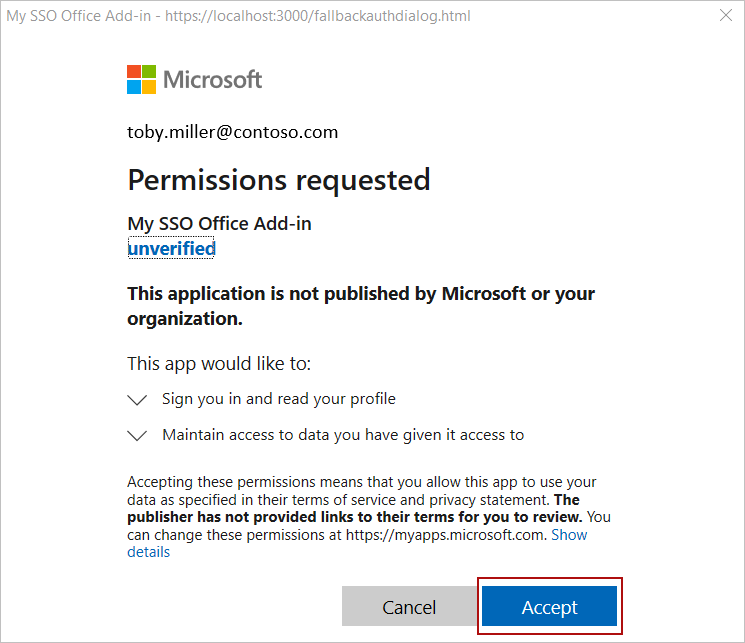
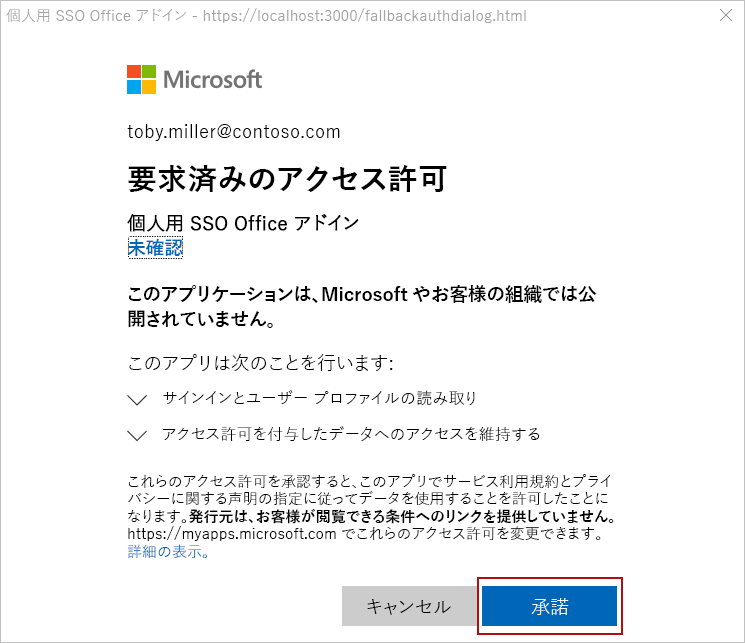
commit translated contents

diff --git a/docs/quickstarts/excel-custom-functions-quickstart.md b/docs/quickstarts/excel-custom-functions-quickstart.md
@@ -1,15 +1,15 @@
 ---
-ms.date: 09/18/2019
+ms.date: 01/16/2020
 description: Excel クイックスタートガイドでのカスタム関数の開発。
 title: カスタム関数のクイックスタート
 ms.prod: excel
 localization_priority: Normal
-ms.openlocfilehash: f34a8817a7c8ef2679fc8ce0a6ad17cec600531b
-ms.sourcegitcommit: a0257feabcfe665061c14b8bdb70cf82f7aca414
+ms.openlocfilehash: 7446de52832a70b30bbe39c71b37e80e006dc62f
+ms.sourcegitcommit: 8bce9c94540ed484d0749f07123dc7c72a6ca126
 ms.translationtype: MT
 ms.contentlocale: ja-JP
-ms.lasthandoff: 09/18/2019
-ms.locfileid: "37035330"
+ms.lasthandoff: 01/22/2020
+ms.locfileid: "41265565"
 ---
 # <a name="get-started-developing-excel-custom-functions"></a>Excel カスタム関数の開発を始める
 
@@ -56,7 +56,7 @@ ms.locfileid: "37035330"
 
 4. Node.js で実行しているローカル Web サーバーを開始します。 Web または Windows 上の Excel でカスタム関数アドインを試すことができます。 アドインの作業ウィンドウを開くように求められる場合がありますが、これはオプションです。 アドインの作業ウィンドウを開かなくても、カスタム関数を実行できます。
 
-# <a name="excel-on-windowstabexcel-windows"></a>[Windows 上の Excel](#tab/excel-windows)
+# <a name="excel-on-windowstabexcel-windows"></a>[Excel on Windows](#tab/excel-windows)
 
 Windows の Excel でアドインをテストするには、次のコマンドを実行します。 このコマンドを実行すると、ローカル web サーバーが起動し、アドインが読み込まれた状態で Excel が開きます。
 

diff --git a/docs/tutorials/excel-tutorial.md b/docs/tutorials/excel-tutorial.md
@@ -1,15 +1,15 @@
 ---
 title: Excel アドインのチュートリアル
 description: このチュートリアルでは、Excel アドインを構築します。このアドインでは、テーブルの作成、表示、フィルター処理、並べ替えを行うことができ、グラフの作成、テーブルのヘッダーの固定、ワークシートの保護も可能となります。また、ダイアログを開くこともできます。
-ms.date: 11/26/2019
+ms.date: 01/16/2020
 ms.prod: excel
 localization_priority: Normal
-ms.openlocfilehash: 48f4decc0cadddecd5669b960238ddd3381f0932
-ms.sourcegitcommit: 350f5c6954dec3e9384e2030cd3265aaba7ae904
+ms.openlocfilehash: 3d9350d30a89d917c30efdbaf91c0c0a5d523724
+ms.sourcegitcommit: 8bce9c94540ed484d0749f07123dc7c72a6ca126
 ms.translationtype: MT
 ms.contentlocale: ja-JP
-ms.lasthandoff: 12/23/2019
-ms.locfileid: "40851419"
+ms.lasthandoff: 01/22/2020
+ms.locfileid: "41265586"
 ---
 # <a name="tutorial-create-an-excel-task-pane-add-in"></a>チュートリアル: Excel 作業ウィンドウ アドインを作成する
 
@@ -1019,6 +1019,6 @@ ms.locfileid: "40851419"
 ## <a name="see-also"></a>関連項目
 
 * [Office アドイン プラットフォームの概要](../overview/office-add-ins.md)
-* [Office アドインを作成する](../overview/office-add-ins-fundamentals.md)
+* [Office アドインを構築する](../overview/office-add-ins-fundamentals.md)
 * [Office アドインを開発する](../develop/develop-overview.md)
 * [Excel JavaScript API を使用した基本的なプログラミングの概念](../excel/excel-add-ins-core-concepts.md)

diff --git a/docs/tutorials/word-tutorial.md b/docs/tutorials/word-tutorial.md
@@ -1,15 +1,15 @@
 ---
 title: Word アドインのチュートリアル
 description: このチュートリアルでは、テキスト範囲、段落、画像、HTML、テーブル、コンテンツ コントロールを挿入 (および置換) する Word アドインを作成します。 テキストに書式を設定する方法と、コンテンツ コントロールにコンテンツを挿入 (および置換) する方法についても説明します。
-ms.date: 12/24/2019
+ms.date: 01/16/2020
 ms.prod: word
 localization_priority: Normal
-ms.openlocfilehash: e6f4a0bee75a9f0de648d8354c6b23b87845c00f
-ms.sourcegitcommit: 350f5c6954dec3e9384e2030cd3265aaba7ae904
+ms.openlocfilehash: 33a5df934dcf707831923c56a1b60f4993edc7fb
+ms.sourcegitcommit: 8bce9c94540ed484d0749f07123dc7c72a6ca126
 ms.translationtype: MT
 ms.contentlocale: ja-JP
-ms.lasthandoff: 12/23/2019
-ms.locfileid: "40851412"
+ms.lasthandoff: 01/22/2020
+ms.locfileid: "41265544"
 ---
 # <a name="tutorial-create-a-word-task-pane-add-in"></a>チュートリアル: Word 作業ウィンドウ アドインを作成する
 
@@ -945,5 +945,5 @@ function insertTextIntoRange() {
 ## <a name="see-also"></a>関連項目
 
 * [Office アドイン プラットフォームの概要](../overview/office-add-ins.md)
-* [Office アドインを作成する](../overview/office-add-ins-fundamentals.md)
+* [Office アドインを構築する](../overview/office-add-ins-fundamentals.md)
 * [Office アドインを開発する](../develop/develop-overview.md)

diff --git a/docs/tutorials/excel-tutorial-create-custom-functions.md b/docs/tutorials/excel-tutorial-create-custom-functions.md
@@ -1,15 +1,15 @@
 ---
 title: Excel カスタム関数のチュートリアル
 description: このチュートリアルでは、計算の実行、Web データの要求、Web データのストリームが可能なカスタム関数を含む Excel アドインを作成します。
-ms.date: 09/18/2019
+ms.date: 01/16/2020
 ms.prod: excel
 localization_priority: Normal
-ms.openlocfilehash: 4481d63cc167c2ce05ec70331ccd7fd472d7846b
-ms.sourcegitcommit: a0257feabcfe665061c14b8bdb70cf82f7aca414
+ms.openlocfilehash: 63379c74897a5f232804241726ac7def1809f5c1
+ms.sourcegitcommit: 8bce9c94540ed484d0749f07123dc7c72a6ca126
 ms.translationtype: MT
 ms.contentlocale: ja-JP
-ms.lasthandoff: 09/18/2019
-ms.locfileid: "37035449"
+ms.lasthandoff: 01/22/2020
+ms.locfileid: "41265537"
 ---
 # <a name="tutorial-create-custom-functions-in-excel"></a>チュートリアル: Excel でのカスタム関数の作成
 

diff --git a/docs/includes/quickstart-yo-prerequisites.md b/docs/includes/quickstart-yo-prerequisites.md
@@ -1,6 +1,4 @@
-- [Node.js](https://nodejs.org) (バージョン 8.0.0 以降)
-
-- [Git](https://git-scm.com/downloads)
+- [Node.js](https://nodejs.org) (最新の[LTS](https://nodejs.org/about/releases)バージョン)
 
 - 最新バージョンの [Yeoman](https://github.com/yeoman/yo) と [Office アドイン用の Yeoman ジェネレーター](https://github.com/OfficeDev/generator-office)。これらのツールをグローバルにインストールするには、コマンド プロンプトから次のコマンドを実行します。
 
